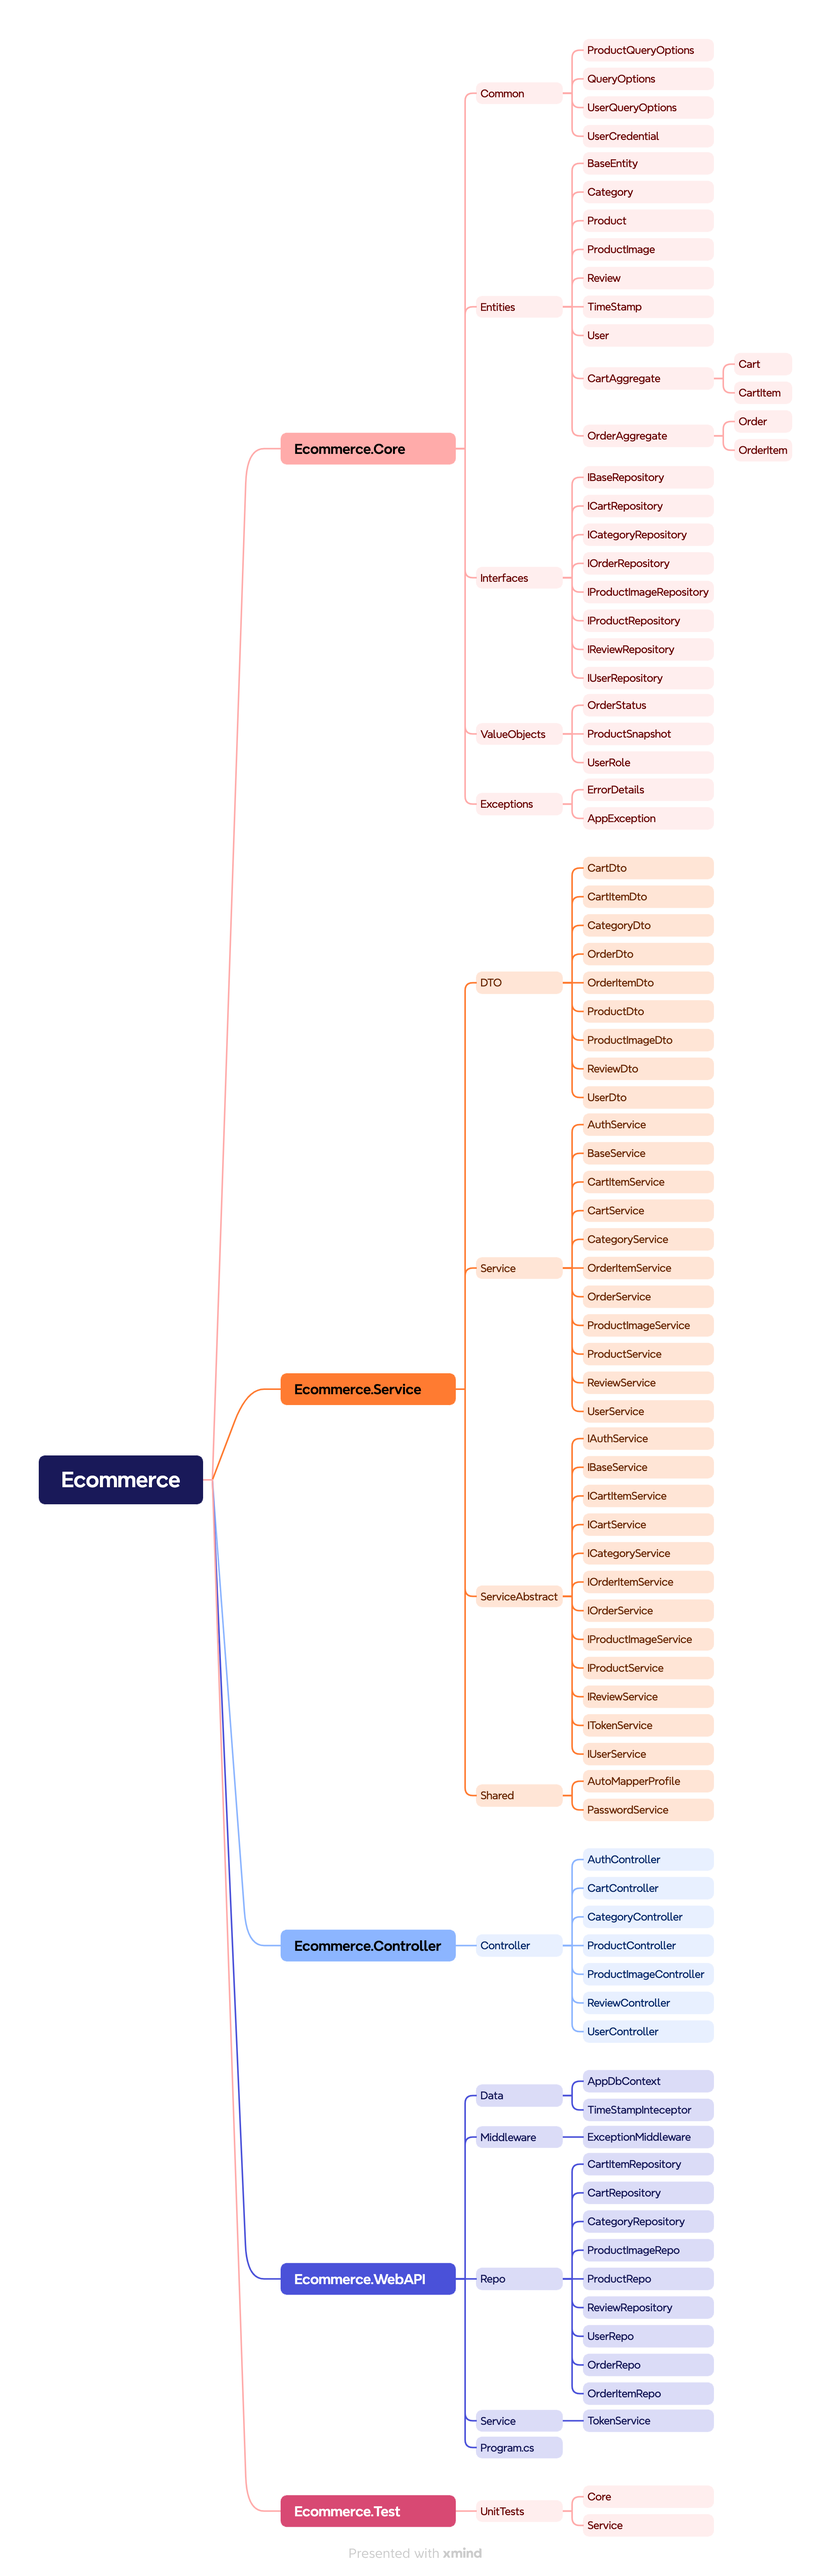
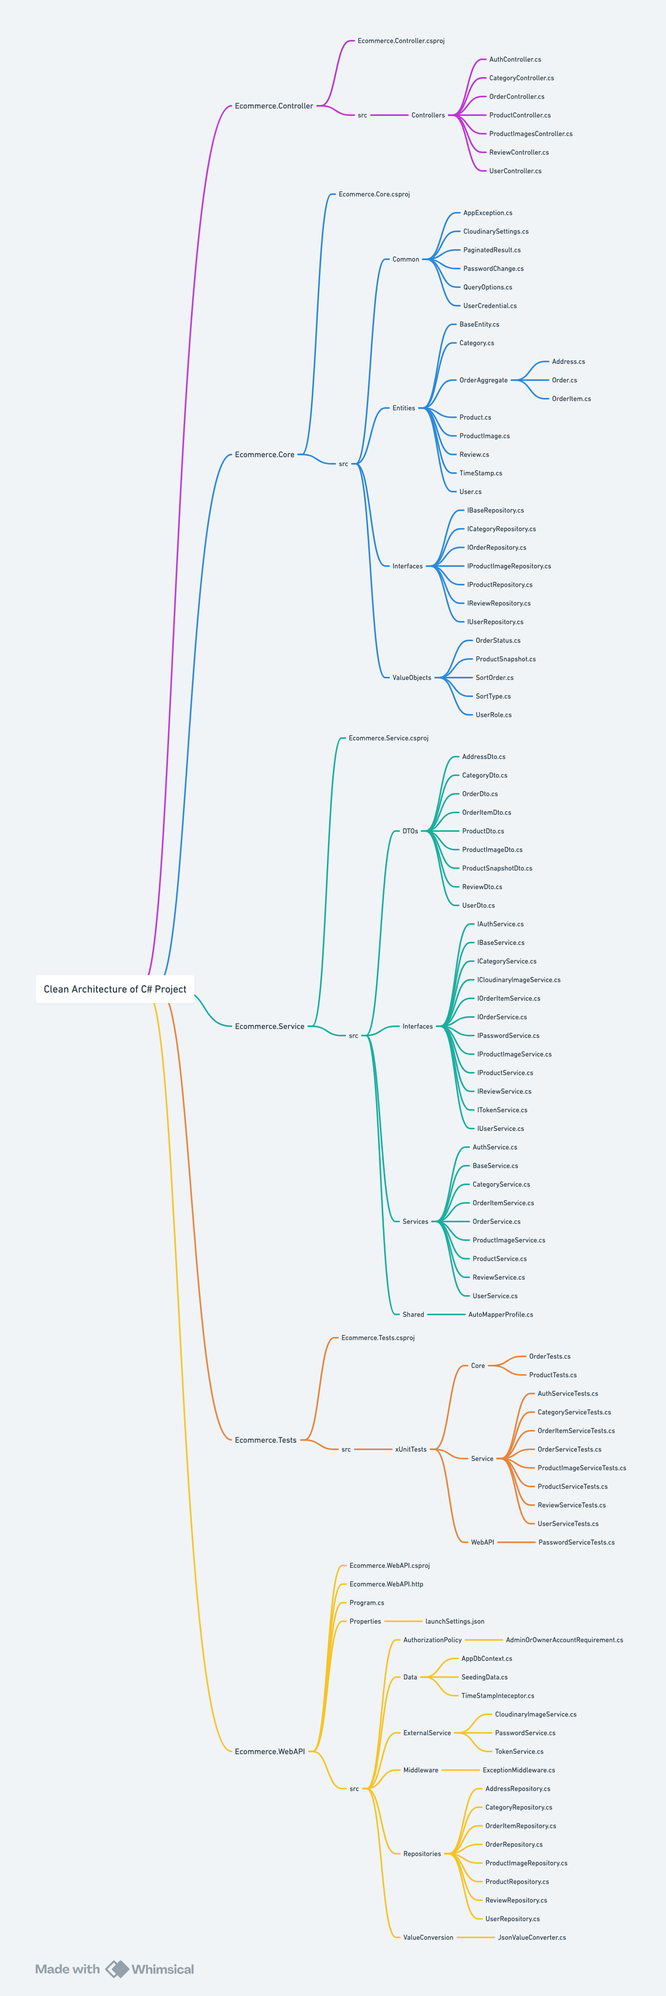
Updated Readme.md

diff --git a/Ecommerce/Ecommerce.Service/src/Shared/AutoMapperProfile.cs b/Ecommerce/Ecommerce.Service/src/Shared/AutoMapperProfile.cs
@@ -27,7 +27,7 @@ namespace Ecommerce.Service.src.Shared
 
             // Product mappings
             CreateMap<Product, ProductReadDto>()
-          .ForMember(dest => dest.Reviews, opt => opt.MapFrom(src => src.Reviews));
+                .ForMember(dest => dest.Reviews, opt => opt.MapFrom(src => src.Reviews));
             CreateMap<ProductCreateDto, Product>();
             // Only map non-null fields to allow partial updates
             CreateMap<ProductUpdateDto, Product>().ForAllMembers(opts => opts.Condition((src, dest, srcMember) => !IsValueTypeDefault(srcMember)));

diff --git a/README.md b/README.md
@@ -12,7 +12,7 @@ The repository is an integral part of my capstone final project of the Full Stac
 - Frontend: TypeScript, React, Redux Toolkit, React Router, Material UI, Jest
 - Backend: ASP.NET Core, Entity Framework Core, PostgreSQL
 
-This repository contains only the backend code of the application. For the frontend implementation, please refer to the [frontend repository](https://github.com/VictoriiaShtyreva/QuickMart). You can explore the live deployment of my frontend e-commerce project by visiting [QuickMart](https://fs17-frontend-project.vercel.app/).
+This repository contains only the backend code of the application. For the frontend implementation, please refer to the [frontend repository](https://github.com/VictoriiaShtyreva/fs17-Frontend-project/tree/master). You can explore the live deployment of my frontend e-commerce project by visiting [QuickMart]().
 
 ## Table of Contents
 
@@ -45,6 +45,7 @@ This repository contains only the backend code of the application. For the front
 | **[xUnit](https://www.nuget.org/packages/xunit)**                                                                                      | Framework for unit testing, ensuring components function correctly in isolation.                                                       |
 | **[Moq](https://www.nuget.org/packages/Moq)**                                                                                          | Mocking library used with xUnit to simulate behavior of dependencies during testing.                                                   |
 | **[Microsoft.EntityFrameworkCore.Proxies](https://www.nuget.org/packages/Microsoft.EntityFrameworkCore.Proxies/)**                     | The Microsoft.EntityFrameworkCore.Proxies package contains implementations of dynamic proxies for lazy-loading and/or change-tracking. |
+| **[CloudinaryDotNet](https://www.nuget.org/packages/CloudinaryDotNet)**                                                                | Manages image uploads, storage, and transformations in the cloud with Cloudinary API.                                                  |
 
 ## Getting Started
 
@@ -73,9 +74,18 @@ Before you begin, ensure you have the following installed:
    "Secrets": {
     "JwtKey": "YourSecretKey",
     "Issuer": "YourIssuer"
-   }
+   },
+    "CloudinarySettings": {
+    "CloudName": "YourName",
+    "ApiKey": "YourSecretKey",
+    "ApiSecret": "YourSecretApi"
+   },
    ```
    > Replace <YOUR_LOCAL_DB_CONNECTION_STRING> with your actual PostgreSQL connection strings.
+   > Replace YourCloudName, YourApiKey, and YourApiSecret with your Cloudinary account details.
+
+To get your Cloudinary settings, visit the [Cloudinary website](https://cloudinary.com/) and sign up or log in to your account. Navigate to the Dashboard to find your Cloud Name, API Key, and API Secret.
+
 3. **Create the database**: Run the following commands
    ```bash
     dotnet tool install --global dotnet-ef
@@ -110,6 +120,7 @@ Detailed database schema definitions including data types, constraints, and rela
 | `categories` | One to Many  | `products`       | Each category can encompass multiple products. A product must belong to a category.            |
 | `users`      | One to Many  | `orders`         | Each user can place multiple orders. An order is linked to the user who placed it.             |
 | `orders`     | One to Many  | `order_items`    | Each order can contain multiple items. Order items are linked back to their respective orders. |
+| `orders`     | One to One   | `address`        | Each order is associated with one address. An address is linked to one order.                  |
 
 ## Backend Server with ASP.NET Core
 
@@ -124,11 +135,56 @@ Detailed database schema definitions including data types, constraints, and rela
 - **Ecommerce.Controller**: This layer is responsible for handling incoming HTTP requests and returning responses. It interacts with the Service layer to fetch and send data back to the client.
 - **Ecommerce.WebAPI**: This houses the controllers and is the entry point for client interactions through HTTP requests. It includes middleware for error handling.
 
+### Connections and Data Flow
+
+1. **Controllers** in the WebAPI layer receive HTTP requests.
+2. **Controllers** call the **Service** layer to perform the necessary business logic.
+3. The **Service** layer uses the **Repositories** from the Data Access layer to fetch or persist data.
+4. **Repositories** interact with the database and return the data to the Service layer.
+5. The **Service** layer processes the data according to the business rules defined in the Core layer.
+6. The processed data is returned to the **Controller**, which sends the appropriate HTTP response back to the client.
+
+### Database Connection
+
+The project follows the Repository pattern for database operations. Each repository implements an interface defined in the Core layer, ensuring that the data access code is abstracted and can be easily swapped or mocked for testing purposes.
+
+- **DbContext**: Configured in the WebAPI layer using dependency injection, providing a session with the database.
+- **Repositories**: Use the DbContext to perform CRUD operations on the entities.
+
+### Example
+
+Here is an example of how an Order is processed:
+
+1. A client sends a `POST` request to create a new order.
+2. The **OrderController** receives the request and calls the `CreateOrder` use case in the **OrderService**.
+3. The **OrderService** calls the `AddOrder` method in the **OrderRepository**.
+4. The **OrderRepository** uses the **DbContext** to save the new order to the database.
+5. The **OrderService** returns the result to the **OrderController**.
+6. The **OrderController** sends a response back to the client indicating the order was successfully created.
+
+### Summary
+
+By following the principles of Clean Architecture, this project ensures that the business logic is kept separate from the infrastructure and UI, promoting better organization, testability, and scalability. Each layer has a specific responsibility and communicates with adjacent layers through well-defined interfaces, ensuring a clean separation of concerns.
+
 ## API Endpoints
 
-All the endpoints of the API are documented and can be tested directly on the generated Swagger page. From there you can view each endpoint URL, their HTTP methods, request body structures and authorization requirements. Access the Swagger page from this link.
+All the endpoints of the API are documented and can be tested directly on the generated Swagger page. From there you can view each endpoint URL, their HTTP methods, request body structures and authorization requirements. Access the Swagger page from this [link]().
+
+![Swagger](/readmeImg/Swagger.png)
 
 ## Key Features
+
+| Feature                                   | Description                                                                                            |
+| ----------------------------------------- | ------------------------------------------------------------------------------------------------------ |
+| **User Authentication and Authorization** | Secure user registration, login, and role-based access control using JWT tokens.                       |
+| **Product Management**                    | Comprehensive product management including creation, update, deletion, and viewing of product details. |
+| **Order Processing**                      | Full order lifecycle management from order creation, payment processing, to order fulfillment.         |
+| **Payment Integration**                   | Integration with payment gateways to handle secure and seamless transactions.                          |
+| **Image Upload and Management**           | Utilizes Cloudinary for uploading, storing, and managing product images.                               |
+| **Search and Filtering**                  | Advanced search and filtering capabilities to help users find products quickly.                        |
+| **Reviews and Ratings**                   | Allows users to leave reviews and ratings for products, enhancing customer feedback and engagement.    |
+| **Admin Dashboard**                       | Admin interface for managing users, orders, products, and other administrative tasks.                  |
+| **Unit Testing**                          | Comprehensive test coverage using xUnit and Moq to ensure code quality and reliability.                |
 
 ## Unit Testing
 
@@ -138,109 +194,166 @@ Unit tests in this project are crucial for ensuring code quality and functionali
 
 ![UnitTesting](/readmeImg/UnitTests.png)
 
+### Running Unit Tests
+
+To execute the unit tests, you can use the .NET CLI. Follow these steps to run the tests from the command line:
+
+1. **Navigate to the project directory**: Open your terminal or command prompt and navigate to the root directory of project.
+
+   ```bash
+   cd Ecommerce
+   ```
+
+2. **Run the tests**: Execute the following command to run all the tests in the solution:
+
+   ```bash
+   dotnet test
+   ```
+
+   > This command will run all the tests, providing you with a summary of the test results, including passed, failed, and skipped tests.
+
 ## Repository Structure
 
 My project is organized as follows to maintain a clean and navigable codebase:
 
 ```plaintext
-|-- /Ecommerce
-|   |-- /Ecommerce.Core
-|   |   |-- /Common
-|   |   |   |-- QueryOptions.cs               // Base class for query options, providing common properties like Sort.
-|   |   |   |-- UserCredential.cs             // Represents credentials for a user, used in authentication processes.
-|   |   |-- /Entities
-|   |   |   |-- BaseEntity.cs                 // Base class for all entities, containing common properties like Id.
-|   |   |   |-- Category.cs                   // Represents a product category with properties like Name and Description.
-|   |   |   |-- Product.cs                    // Defines a product with properties such as Name, Price, and CategoryId.
-|   |   |   |-- ProductImage.cs               // Associated images for products, storing paths or image data.
-|   |   |   |-- Review.cs                     // Customer reviews for products, includes Rating and Comment.
-|   |   |   |-- TimeStamp.cs                  // Adds timestamps to entities, handled by TimeStampInterceptor for automatic updates.
-|   |   |   |-- User.cs                       // User profile information, including credentials and roles.
-|   |   |   |-- OrderAggregate/               // Details an order, encapsulating order items and transaction data.
-|   |   |   |   |-- Order.cs
-|   |   |   |   |-- OrderItem.cs
-|   |   |-- /Interfaces
-|   |   |   |-- IBaseRepository.cs            // Generic interface for CRUD operations applicable to all entities.
-|   |   |   |-- ICategoryRepository.cs        // Custom repository actions for categories, like bulk update or specialized queries.
-|   |   |   |-- IOrderRepository.cs           // Additional methods for managing orders, including status updates and history.
-|   |   |   |-- IProductImageRepository.cs    // Handles operations specific to product image storage and retrieval.
-|   |   |   |-- IProductRepository.cs         // Product-specific repository methods, such as searching by category.
-|   |   |   |-- IReviewRepository.cs          // Methods for managing product reviews, including approval processes.
-|   |   |   |-- IUserRepository.cs            // User-related data access functionalities, including search by role.
-|   |   |-- /ValueObjects
-|   |   |   |-- ProductSnapshot.cs            // A snapshot of product data at the time of transaction, used in order details.
-|   |   |   |-- UserRole.cs                   // Defines roles within the system to manage access control levels.
-|   |   |   |-- OrderStatus.cs                // Defines status of orders within the system to manage access control levels.
-|   |   |-- /Extensions
-|   |       |-- ErrorDetails.cs               // Format for API error responses, includes status code and message.
-|   |       |-- AppException.cs               // Custom exception type for application-specific errors, used for unified handling.
-|   |
-|   |-- /Ecommerce.Service
-|   |   |-- /DTO
-|   |   |   |-- CategoryDto.cs                // Simplified category data for transfer, primarily used in listing endpoints.
-|   |   |   |-- OrderDto.cs                   // Summary of an order for client applications, includes OrderItems and total cost.
-|   |   |   |-- OrderItemDto.cs               // Details of an individual order item within an order.
-|   |   |   |-- ProductDto.cs                 // Product data formatted for client delivery, includes descriptions and pricing.
-|   |   |   |-- ProductImageDto.cs            // Data transfer format for images, may include a URL or binary data.
-|   |   |   |-- ReviewDto.cs                  // Format for delivering review data to clients, includes user context and content.
-|   |   |   |-- UserDto.cs                    // User profile information suitable for client-side use, includes user roles.
-|   |-- /Services
-|   |   |   |-- /Services
-|   |   |   |-- AuthService.cs                // Manages authentication processes, including token generation and validation.
-|   |   |   |-- BaseService.cs                // Base service providing common functionalities to all services, such as logging.
-|   |   |   |-- CategoryService.cs            // Operations related to category management, from creation to modification.
-|   |   |   |-- OrderItemService.cs           // Detailed logic for handling order items during the purchase process.
-|   |   |   |-- OrderService.cs               // Coordinates all aspects of order processing, from placement to delivery.
-|   |   |   |-- ProductImageService.cs        // Handles the storage and retrieval of product images.
-|   |   |   |-- ProductService.cs             // Core service for product management, including inventory and updates.
-|   |   |   |-- ReviewService.cs              // Manages the lifecycle of product reviews, including moderation.
-|   |   |   |-- UserService.cs                // User profile and credential management, including registration and updates.
-|   |   |   |-- TokenService.cs               // Generates and validates security tokens for user authentication.
-|   |   |-- /Shared
-|   |       |-- AutoMapperProfile.cs          // Configurations for AutoMapper to handle entity to DTO mappings efficiently.
-|   |       |-- PasswordService.cs            // Provides password hashing and verification services.
-|   |
-|   |-- /Ecommerce.Controller
-|   |   |-- /Controller
-|   |   |   |-- AuthController.cs             // Handles authentication requests, like login and token refresh.
-|   |   |   |-- CategoryController.cs         // Provides API access to category data, including CRUD operations.
-|   |   |   |-- OrderController.cs            // Manages order-related endpoints, from creation to status updates.
-|   |   |   |-- ProductController.cs          // Controls product data exposure through the API, including search and details.
-|   |   |   |-- ProductImageController.cs     // Endpoints for uploading and retrieving product images.
-|   |   |   |-- ReviewController.cs           // API operations for managing reviews, including posting and editing.
-|   |   |   |-- UserController.cs             // Handles user profile requests and user-specific data interactions.
-|   |   |
-|   |-- /Ecommerce.WebAPI
-|   |   |-- /Repo
-|   |   |   |-- CategoryRepository.cs         // Accesses and manipulates category data in the database.
-|   |   |   |-- ProductImageRepo.cs           // Handles the persistence of product images.
-|   |   |   |-- ProductRepo.cs                // Facilitates data access for product management.
-|   |   |   |-- ReviewRepository.cs           // Manages review data interactions.
-|   |   |   |-- UserRepo.cs                   // Repository for user data access and manipulation.
-|   |   |-- /Data
-|   |   |   |-- AppDbContext.cs               // Entity Framework context, configures model relationships and database mappings.
-|   |   |   |-- TimeStampInterceptor.cs       // EF Core interceptor to automatically update timestamp fields on save.
-|   |   |-- /Middleware
-|   |       |-- ExceptionMiddleware.cs        // Centralizes exception handling for the API, standardizing error responses.
-|   |
-|   |-- /Ecommerce.Test
-|   |   |-- /UnitTests
-|   |   |   |-- CategoryTests.cs              // Tests for category functionalities.
-|   |   |   |-- OrderTests.cs                 // Tests for order functionalities.
-|   |   |   |-- ProductImageTests.cs          // Tests for product image functionalities.
-|   |   |   |-- ProductTests.cs               // Tests for product functionalities.
-|   |   |   |-- ReviewTests.cs                // Tests for review functionalities.
-|   |   |   |-- UserTests.cs                  // Tests for user functionalities.
-|   |
-|   |   |-- /Service
-|   |   |   |-- CategoryServiceTests.cs       // Tests for category service operations.
-|   |   |   |-- OrderItemServiceTests.cs      // Tests for order item service operations.
-|   |   |   |-- OrderServiceTests.cs          // Tests for order service operations.
-|   |   |   |-- ProductImageServiceTests.cs   // Tests for product image service operations.
-|   |   |   |-- ProductServiceTests.cs        // Tests for product service operations.
-|   |   |   |-- ReviewServiceTests.cs         // Tests for review service operations.
-|   |   |   |-- UserServiceTests.cs           // Tests for user service operations.
-
+Ecommerce
+   |-- Ecommerce.Controller
+   |   |-- Ecommerce.Controller.csproj
+   |   |-- src
+   |   |   |-- Controllers
+   |   |   |   |-- AuthController.cs
+   |   |   |   |-- CategoryController.cs
+   |   |   |   |-- OrderController.cs
+   |   |   |   |-- ProductController.cs
+   |   |   |   |-- ProductImagesController.cs
+   |   |   |   |-- ReviewController.cs
+   |   |   |   |-- UserController.cs
+   |-- Ecommerce.Core
+   |   |-- Ecommerce.Core.csproj
+   |   |-- src
+   |   |   |-- Common
+   |   |   |   |-- AppException.cs
+   |   |   |   |-- CloudinarySettings.cs
+   |   |   |   |-- PaginatedResult.cs
+   |   |   |   |-- PasswordChange.cs
+   |   |   |   |-- QueryOptions.cs
+   |   |   |   |-- UserCredential.cs
+   |   |   |-- Entities
+   |   |   |   |-- BaseEntity.cs
+   |   |   |   |-- Category.cs
+   |   |   |   |-- OrderAggregate
+   |   |   |   |   |-- Address.cs
+   |   |   |   |   |-- Order.cs
+   |   |   |   |   |-- OrderItem.cs
+   |   |   |   |-- Product.cs
+   |   |   |   |-- ProductImage.cs
+   |   |   |   |-- Review.cs
+   |   |   |   |-- TimeStamp.cs
+   |   |   |   |-- User.cs
+   |   |   |-- Interfaces
+   |   |   |   |-- IBaseRepository.cs
+   |   |   |   |-- ICategoryRepository.cs
+   |   |   |   |-- IOrderRepository.cs
+   |   |   |   |-- IProductImageRepository.cs
+   |   |   |   |-- IProductRepository.cs
+   |   |   |   |-- IReviewRepository.cs
+   |   |   |   |-- IUserRepository.cs
+   |   |   |-- ValueObjects
+   |   |   |   |-- OrderStatus.cs
+   |   |   |   |-- ProductSnapshot.cs
+   |   |   |   |-- SortOrder.cs
+   |   |   |   |-- SortType.cs
+   |   |   |   |-- UserRole.cs
+   |-- Ecommerce.Service
+   |   |-- Ecommerce.Service.csproj
+   |   |-- src
+   |   |   |-- DTOs
+   |   |   |   |-- AddressDto.cs
+   |   |   |   |-- CategoryDto.cs
+   |   |   |   |-- OrderDto.cs
+   |   |   |   |-- OrderItemDto.cs
+   |   |   |   |-- ProductDto.cs
+   |   |   |   |-- ProductImageDto.cs
+   |   |   |   |-- ProductSnapshotDto.cs
+   |   |   |   |-- ReviewDto.cs
+   |   |   |   |-- UserDto.cs
+   |   |   |-- Interfaces
+   |   |   |   |-- IAuthService.cs
+   |   |   |   |-- IBaseService.cs
+   |   |   |   |-- ICategoryService.cs
+   |   |   |   |-- ICloudinaryImageService.cs
+   |   |   |   |-- IOrderItemService.cs
+   |   |   |   |-- IOrderService.cs
+   |   |   |   |-- IPasswordService.cs
+   |   |   |   |-- IProductImageService.cs
+   |   |   |   |-- IProductService.cs
+   |   |   |   |-- IReviewService.cs
+   |   |   |   |-- ITokenService.cs
+   |   |   |   |-- IUserService.cs
+   |   |   |-- Services
+   |   |   |   |-- AuthService.cs
+   |   |   |   |-- BaseService.cs
+   |   |   |   |-- CategoryService.cs
+   |   |   |   |-- OrderItemService.cs
+   |   |   |   |-- OrderService.cs
+   |   |   |   |-- ProductImageService.cs
+   |   |   |   |-- ProductService.cs
+   |   |   |   |-- ReviewService.cs
+   |   |   |   |-- UserService.cs
+   |   |   |-- Shared
+   |   |   |   |-- AutoMapperProfile.cs
+   |-- Ecommerce.Tests
+   |   |-- Ecommerce.Tests.csproj
+   |   |-- src
+   |   |   |-- xUnitTests
+   |   |   |   |-- Core
+   |   |   |   |   |-- OrderTests.cs
+   |   |   |   |   |-- ProductTests.cs
+   |   |   |   |-- Service
+   |   |   |   |   |-- AuthServiceTests.cs
+   |   |   |   |   |-- CategoryServiceTests.cs
+   |   |   |   |   |-- OrderItemServiceTests.cs
+   |   |   |   |   |-- OrderServiceTests.cs
+   |   |   |   |   |-- ProductImageServiceTests.cs
+   |   |   |   |   |-- ProductServiceTests.cs
+   |   |   |   |   |-- ReviewServiceTests.cs
+   |   |   |   |   |-- UserServiceTests.cs
+   |   |   |   |-- WebAPI
+   |   |   |   |   |-- PasswordServiceTests.cs
+   |-- Ecommerce.WebAPI
+   |   |-- Ecommerce.WebAPI.csproj
+   |   |-- Ecommerce.WebAPI.http
+   |   |-- Program.cs
+   |   |-- Properties
+   |   |   |-- launchSettings.json
+   |   |-- src
+   |   |   |-- AuthorizationPolicy
+   |   |   |   |-- AdminOrOwnerAccountRequirement.cs
+   |   |   |-- Data
+   |   |   |   |-- AppDbContext.cs
+   |   |   |   |-- SeedingData.cs
+   |   |   |   |-- TimeStampInteceptor.cs
+   |   |   |-- ExternalService
+   |   |   |   |-- CloudinaryImageService.cs
+   |   |   |   |-- PasswordService.cs
+   |   |   |   |-- TokenService.cs
+   |   |   |-- Middleware
+   |   |   |   |-- ExceptionMiddleware.cs
+   |   |   |-- Repositories
+   |   |   |   |-- AddressRepository.cs
+   |   |   |   |-- CategoryRepository.cs
+   |   |   |   |-- OrderItemRepository.cs
+   |   |   |   |-- OrderRepository.cs
+   |   |   |   |-- ProductImageRepository.cs
+   |   |   |   |-- ProductRepository.cs
+   |   |   |   |-- ReviewRepository.cs
+   |   |   |   |-- UserRepository.cs
+   |   |   |-- ValueConversion
+   |   |   |   |-- JsonValueConverter.cs
+   |-- Ecommerce.sln
+   |-- Ecommerce.sln.DotSettings.user
+README.md
 ```
 
 ## Acknowledgements
